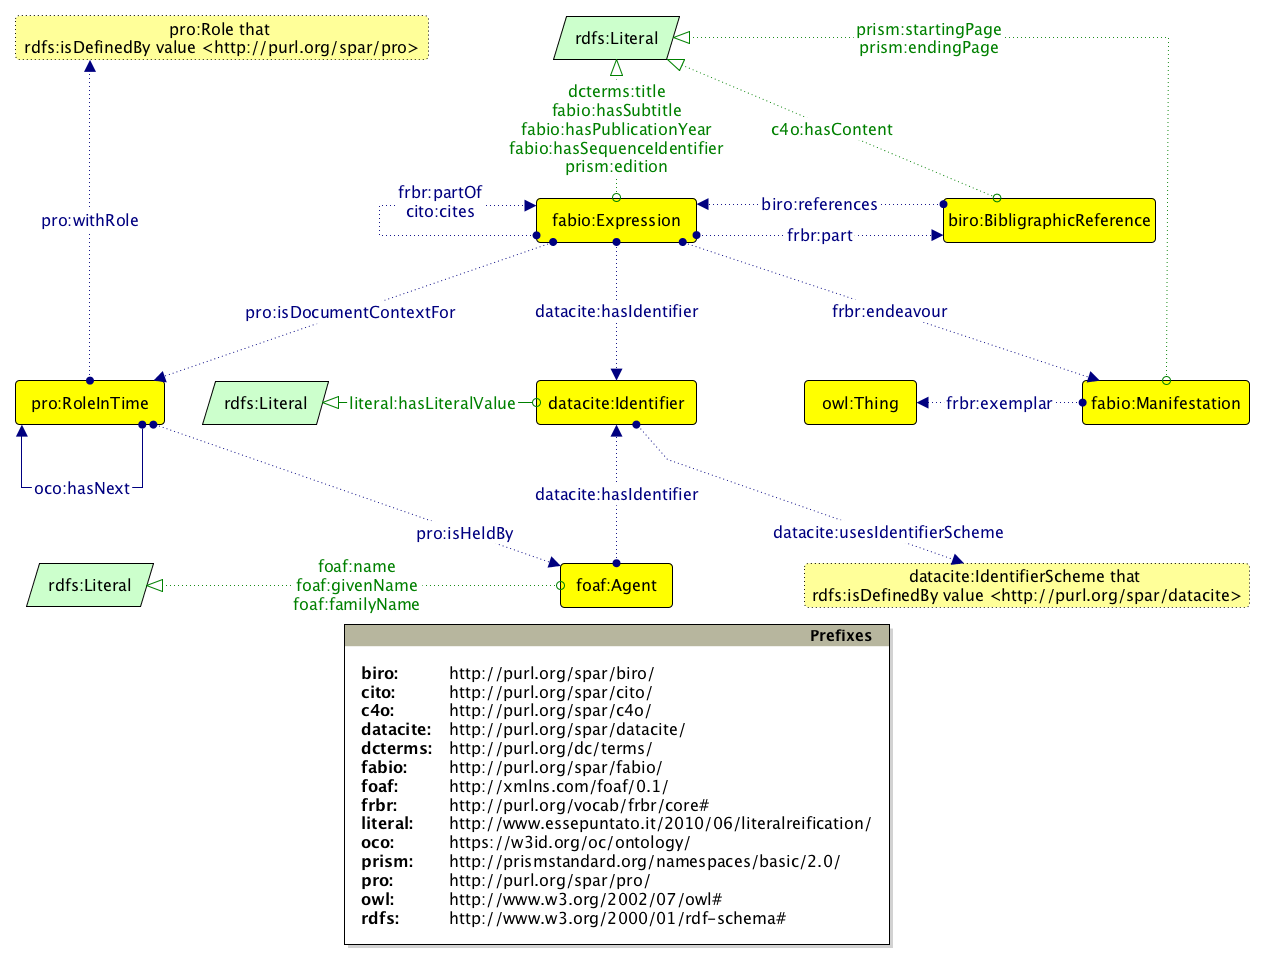
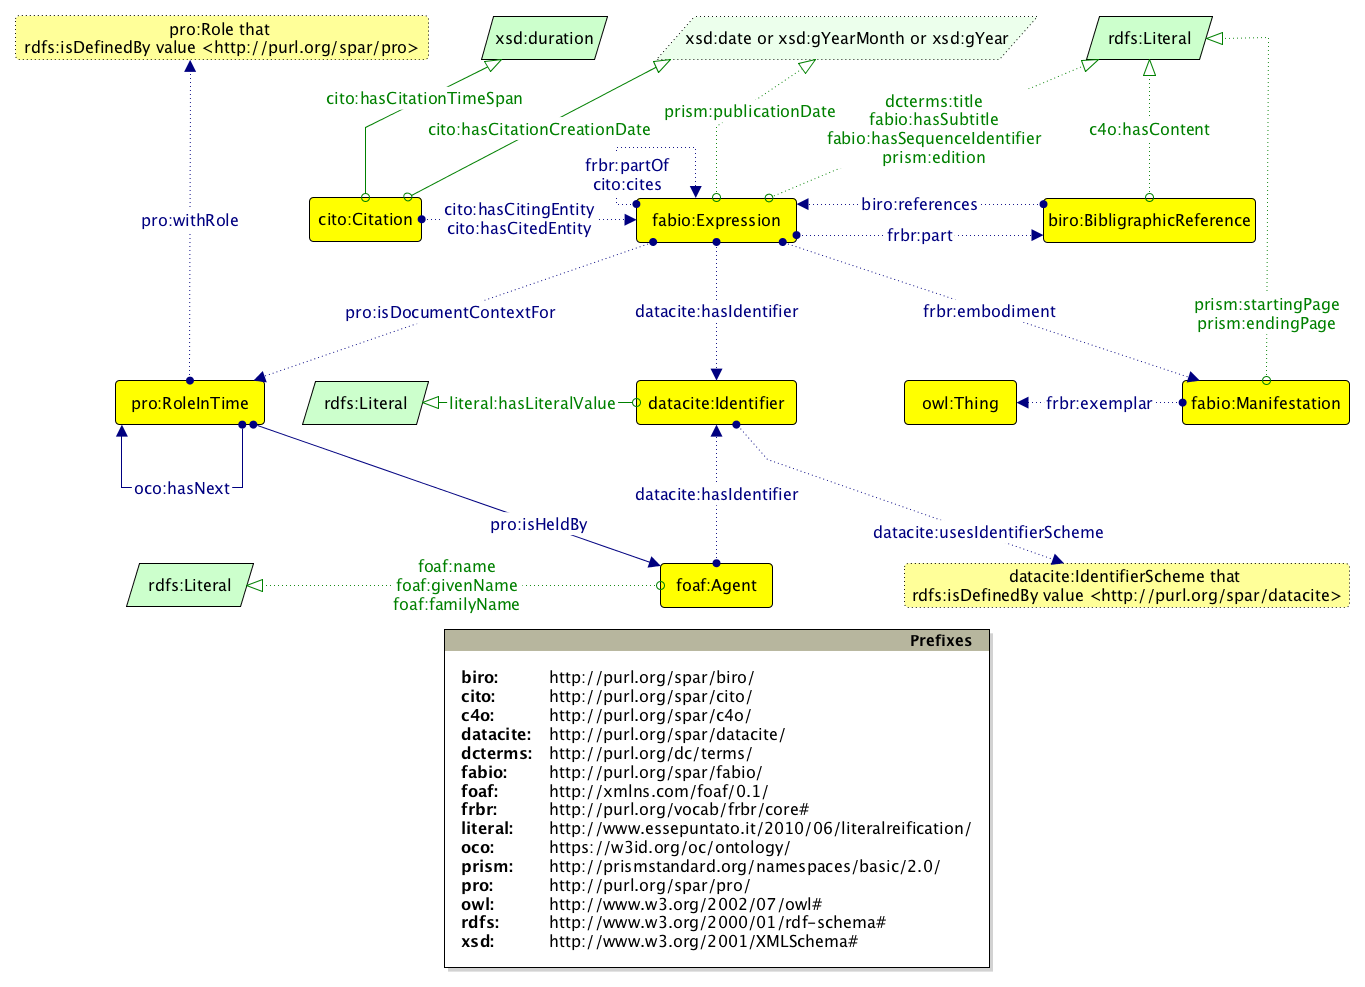
Updated diagram with the new OCDM

diff --git a/html-template/model.html b/html-template/model.html
@@ -80,7 +80,7 @@ $def with (pages, active)
             <div class="cover left">
                  <h3>$active.title()</h3>
                  <p>The metadata model used for the data stored in the OCC is briefly summarised in <a class="cgen" href="#refIllustration0">Figure 1</a> and is described in:
-                 <blockquote><p>Silvio Peroni, David Shotton (2016). Metadata for the OpenCitations Corpus. figshare. <a href="https://dx.doi.org/10.6084/m9.figshare.3443876">https://dx.doi.org/10.6084/m9.figshare.3443876</a></p></blockquote>
+                 <blockquote><p>Silvio Peroni, David Shotton (2016). Metadata for the OpenCitations Corpus. figshare. <a href="https://doi.org/10.6084/m9.figshare.3443876">https://doi.org/10.6084/m9.figshare.3443876</a></p></blockquote>
                  <p>The model is explicitly aligned with the <a href="http://www.sparontologies.net">SPAR Ontologies</a> and other well-known vocabularies, including:</p>
             <ul>
                <li>
@@ -93,7 +93,10 @@ $def with (pages, active)
                   <p>the <a href="http://purl.org/spar/biro">Bibliographic Reference Ontology (BiRO)</a> and the <a href="http://purl.org/spar/c4o">Citation Counting and Context Characterization Ontology (C4O)</a> are used for describing the textual content of each reference in the reference list of a citing bibliographic resource;</p>
                </li>
                <li>
-                  <p>and finally, the <a href="http://purl.org/spar/datacite">DataCite Ontology</a>, which is used to define all the identifiers (e.g. DOI, PubMed ID, PubMed Central ID, ORCID, ISSN, etc.) for the bibliographic resources and all the agents involved, while the <a href="http://xmlns.com/foaf/spec/">Friend Of A Friend (FOAF)</a> ontology is used to define additional data about agents (specifically their names).</p>
+                  <p>the <a href="http://purl.org/spar/datacite">DataCite Ontology</a>, which is used to define all the identifiers (e.g. DOI, PubMed ID, PubMed Central ID, ORCID, ISSN, etc.) for the bibliographic resources and all the agents involved, while the <a href="http://xmlns.com/foaf/spec/">Friend Of A Friend (FOAF)</a> ontology is used to define additional data about agents (specifically their names).</p>
+               </li>
+               <li>
+                   <p>and, finally, the <a href="http://purl.org/spar/cito">Citation Typing Ontology (CiTO)</a>, which is used to define citations (i.e. conceptual directional links from a citing entity to a cited entity, created by a human performative act of making a citation) as first-class data entities.</p>
                </li>
             </ul>
             <p>For convenience, all the terms from the aforementioned ontologies are collected within a new ontology called <a href="https://w3id.org/oc/ontology">OpenCitations Ontology (OCO)</a>. This is not yet another bibliographic ontology, but rather just a place where existing complementary ontological entities from several other ontologies are grouped together for the purpose of providing descriptive metadata for the OCC.</p>
